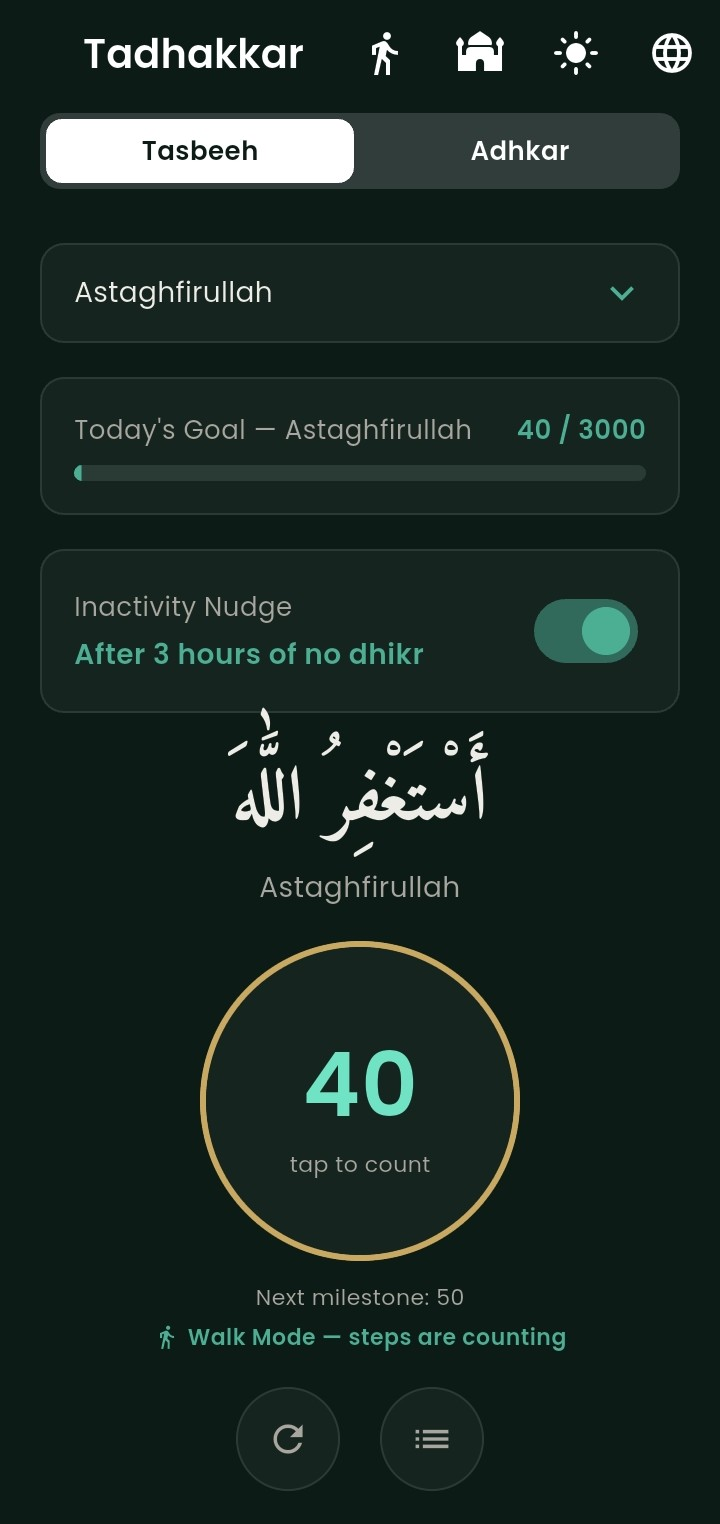
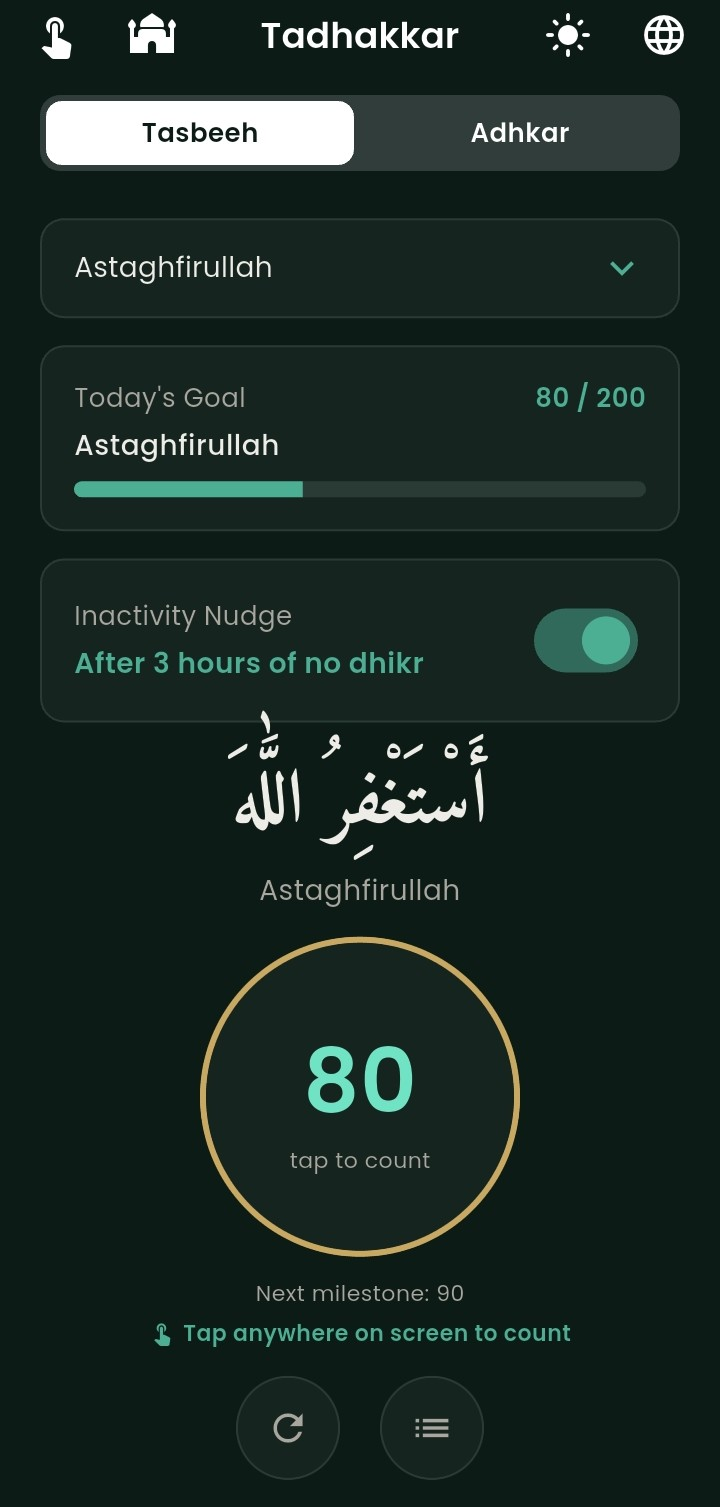
fixed v=2 to be v=3

diff --git a/index.html b/index.html
@@ -535,12 +535,12 @@
     <div class="hero-visual">
       <div class="phone phone-secondary">
         <div class="phone-screen">
-          <img src="assets/screenshots/app-dark-mode.jpg" alt="Tadhakkar Tasbeeh counter in dark mode, showing Walk Mode active and the inactivity nudge toggle">
+          <img src="assets/screenshots/app-dark-mode.jpg?v=3" alt="Tadhakkar Tasbeeh counter in dark mode, showing Walk Mode active and the inactivity nudge toggle">
         </div>
       </div>
       <div class="phone">
         <div class="phone-screen">
-          <img src="assets/screenshots/app-light-mode.jpg" alt="Tadhakkar Tasbeeh counter in light mode, showing the SubhanAllah counter, today's goal, and inactivity nudge">
+          <img src="assets/screenshots/app-light-mode.jpg?v=3" alt="Tadhakkar Tasbeeh counter in light mode, showing the SubhanAllah counter, today's goal, and inactivity nudge">
         </div>
       </div>
     </div>

diff --git a/README.md b/README.md
@@ -1,1 +1,26 @@
-# tadhakkar-web
+# تذكّر Tadhakkar
+
+A Flutter/Android dhikr and prayer-times app — free, works offline, no account required.
+
+## Download
+
+Grab the latest APK from the [Releases page](../../releases/latest).
+
+1. On your Android phone, open the link above and tap the `Tadhakkar.apk` file under **Assets** to download it.
+2. Once downloaded, open the file from your notifications or Downloads folder to start installing.
+3. Android may show a **"Play Protect"** or **"Unknown sources"** warning — this is expected for apps installed outside the Play Store. Tap **Settings**, enable the toggle to allow installs from this source, then go back and tap **Install**.
+4. Open Tadhakkar, choose your language, pick a dhikr, and start counting. Everything is saved on your device automatically.
+
+> Tadhakkar is not yet on the Google Play Store, so installation looks a little different from most apps — but it only takes about a minute.
+
+## Features
+
+- Tasbeeh counter with customizable daily goals
+- Adhkar (remembrance) library
+- Inactivity nudges to bring you back to dhikr
+- Walk Mode — counts steps as dhikr
+- Works fully offline, no sign-up
+
+## Website
+
+Visit [tadhakkar.vercel.app](https://tadhakkar.vercel.app) for more details and screenshots.
